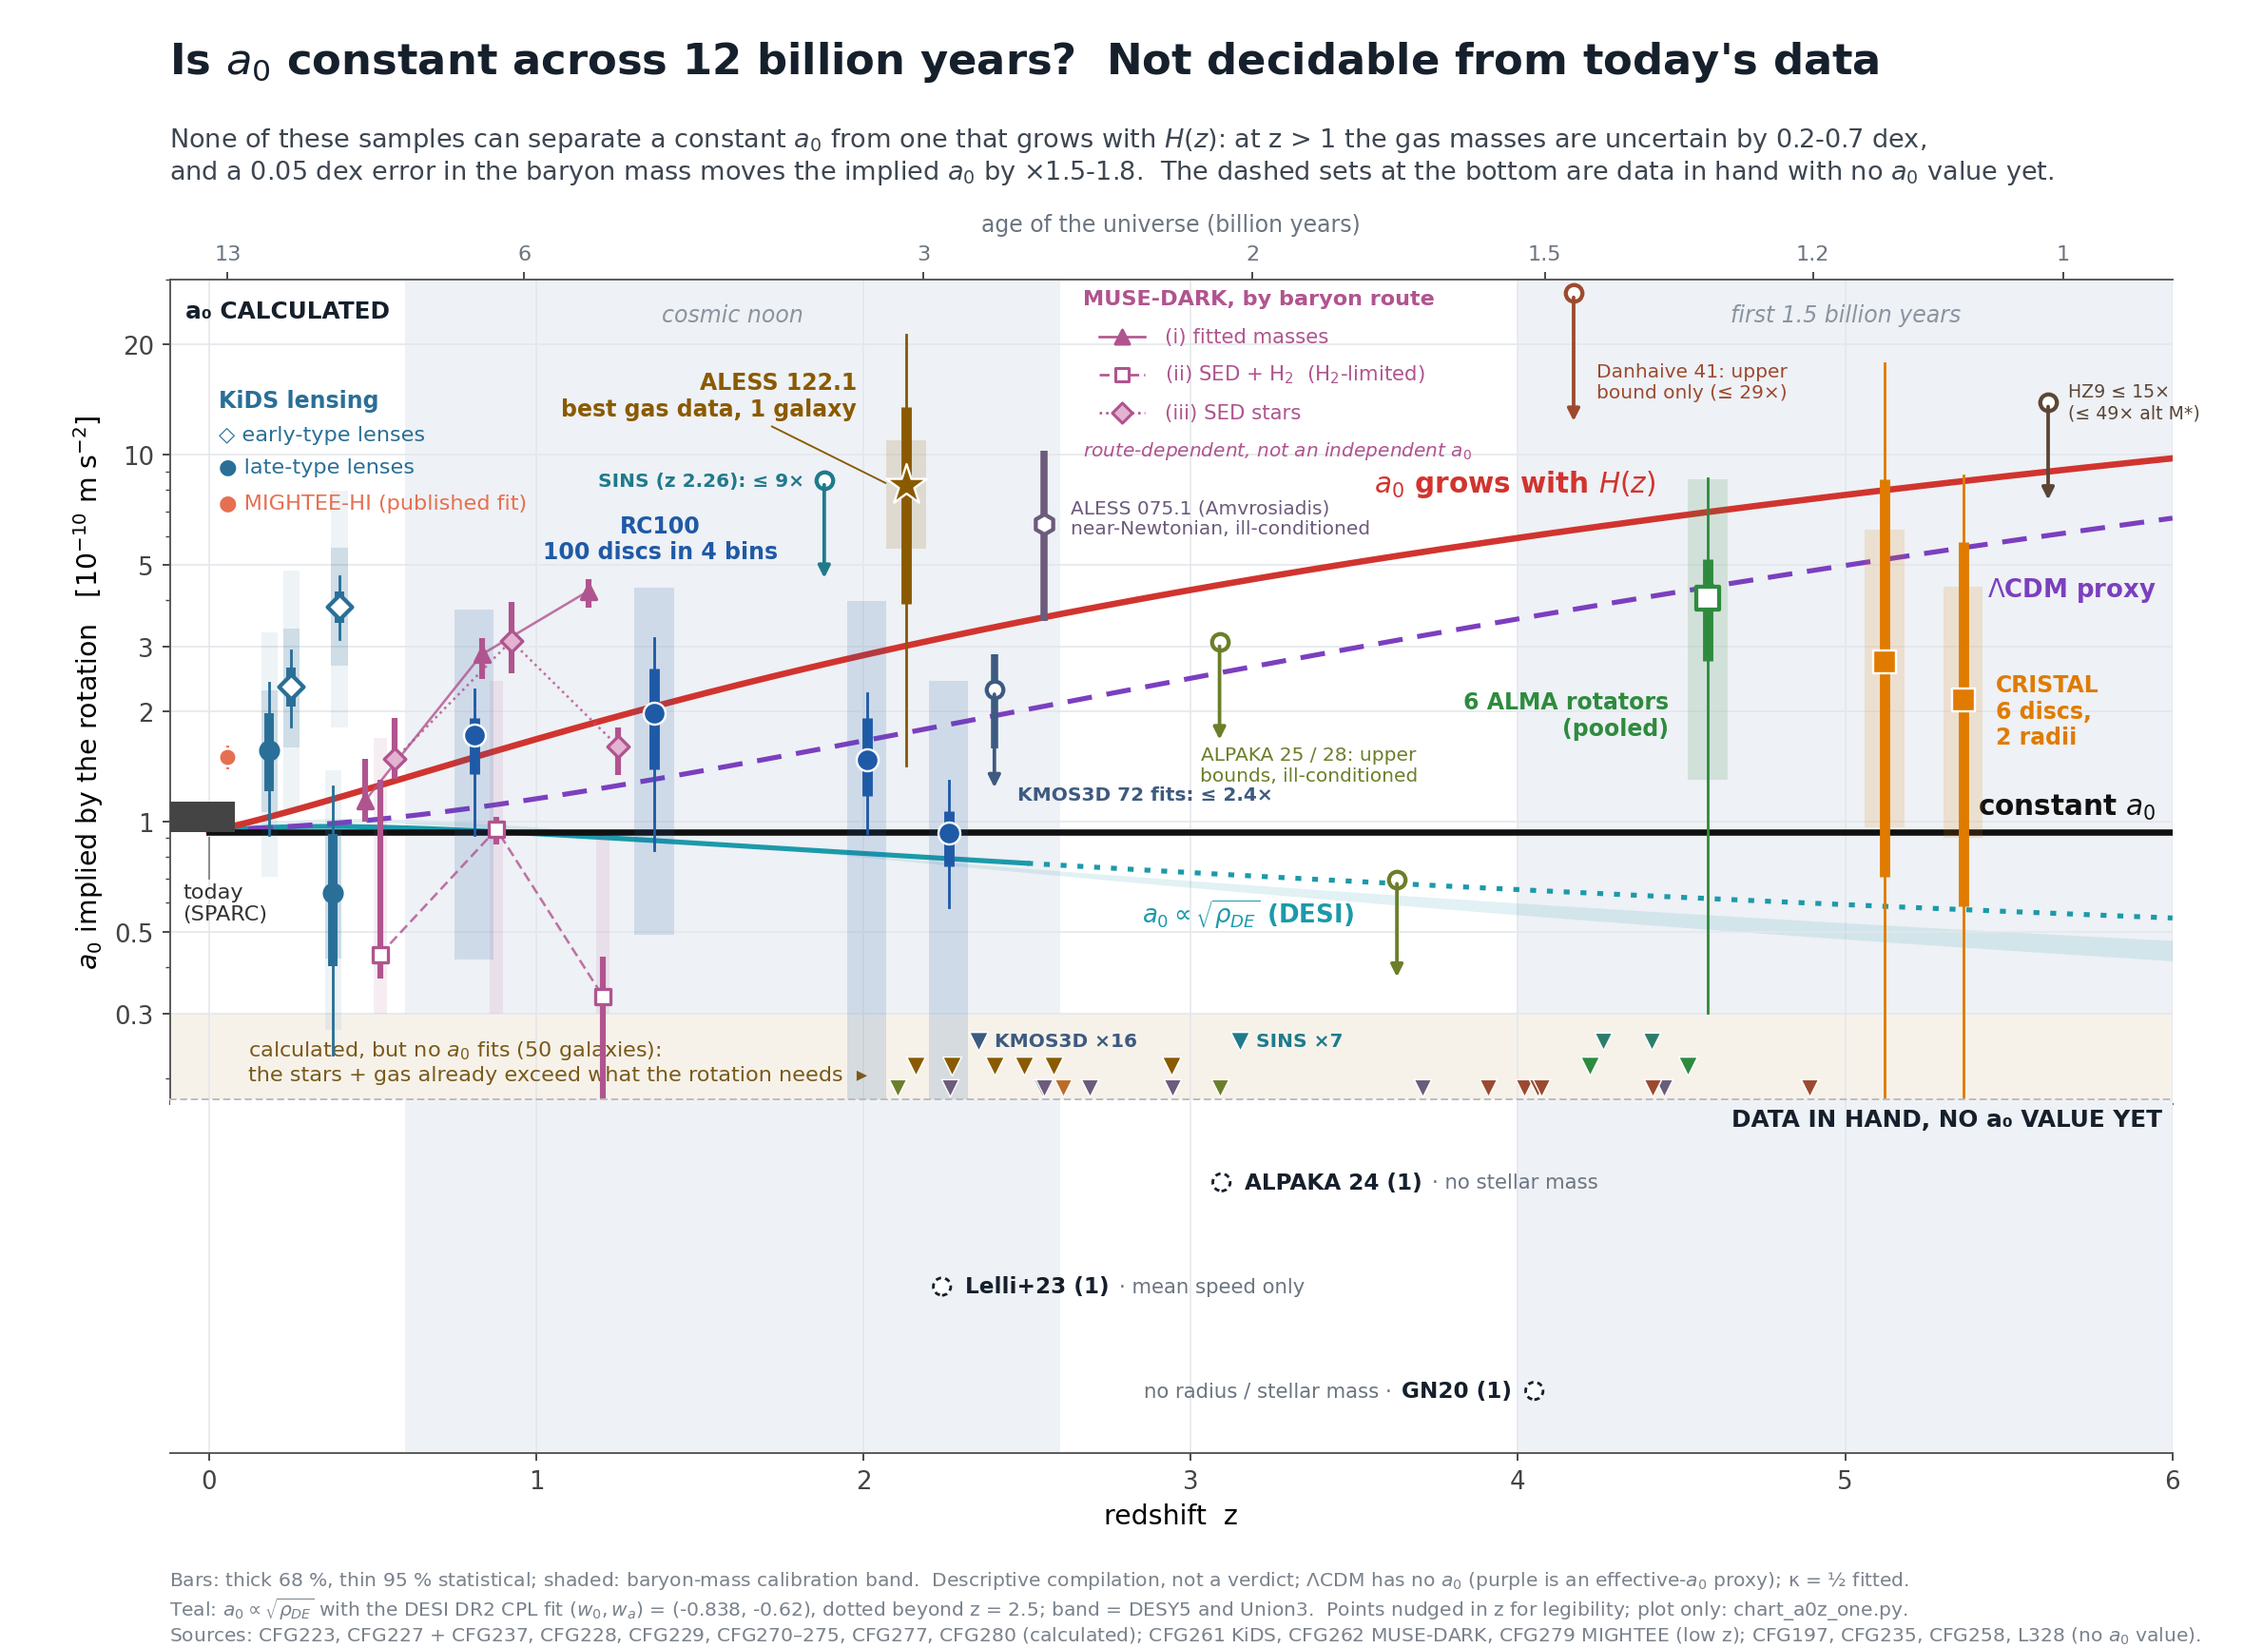
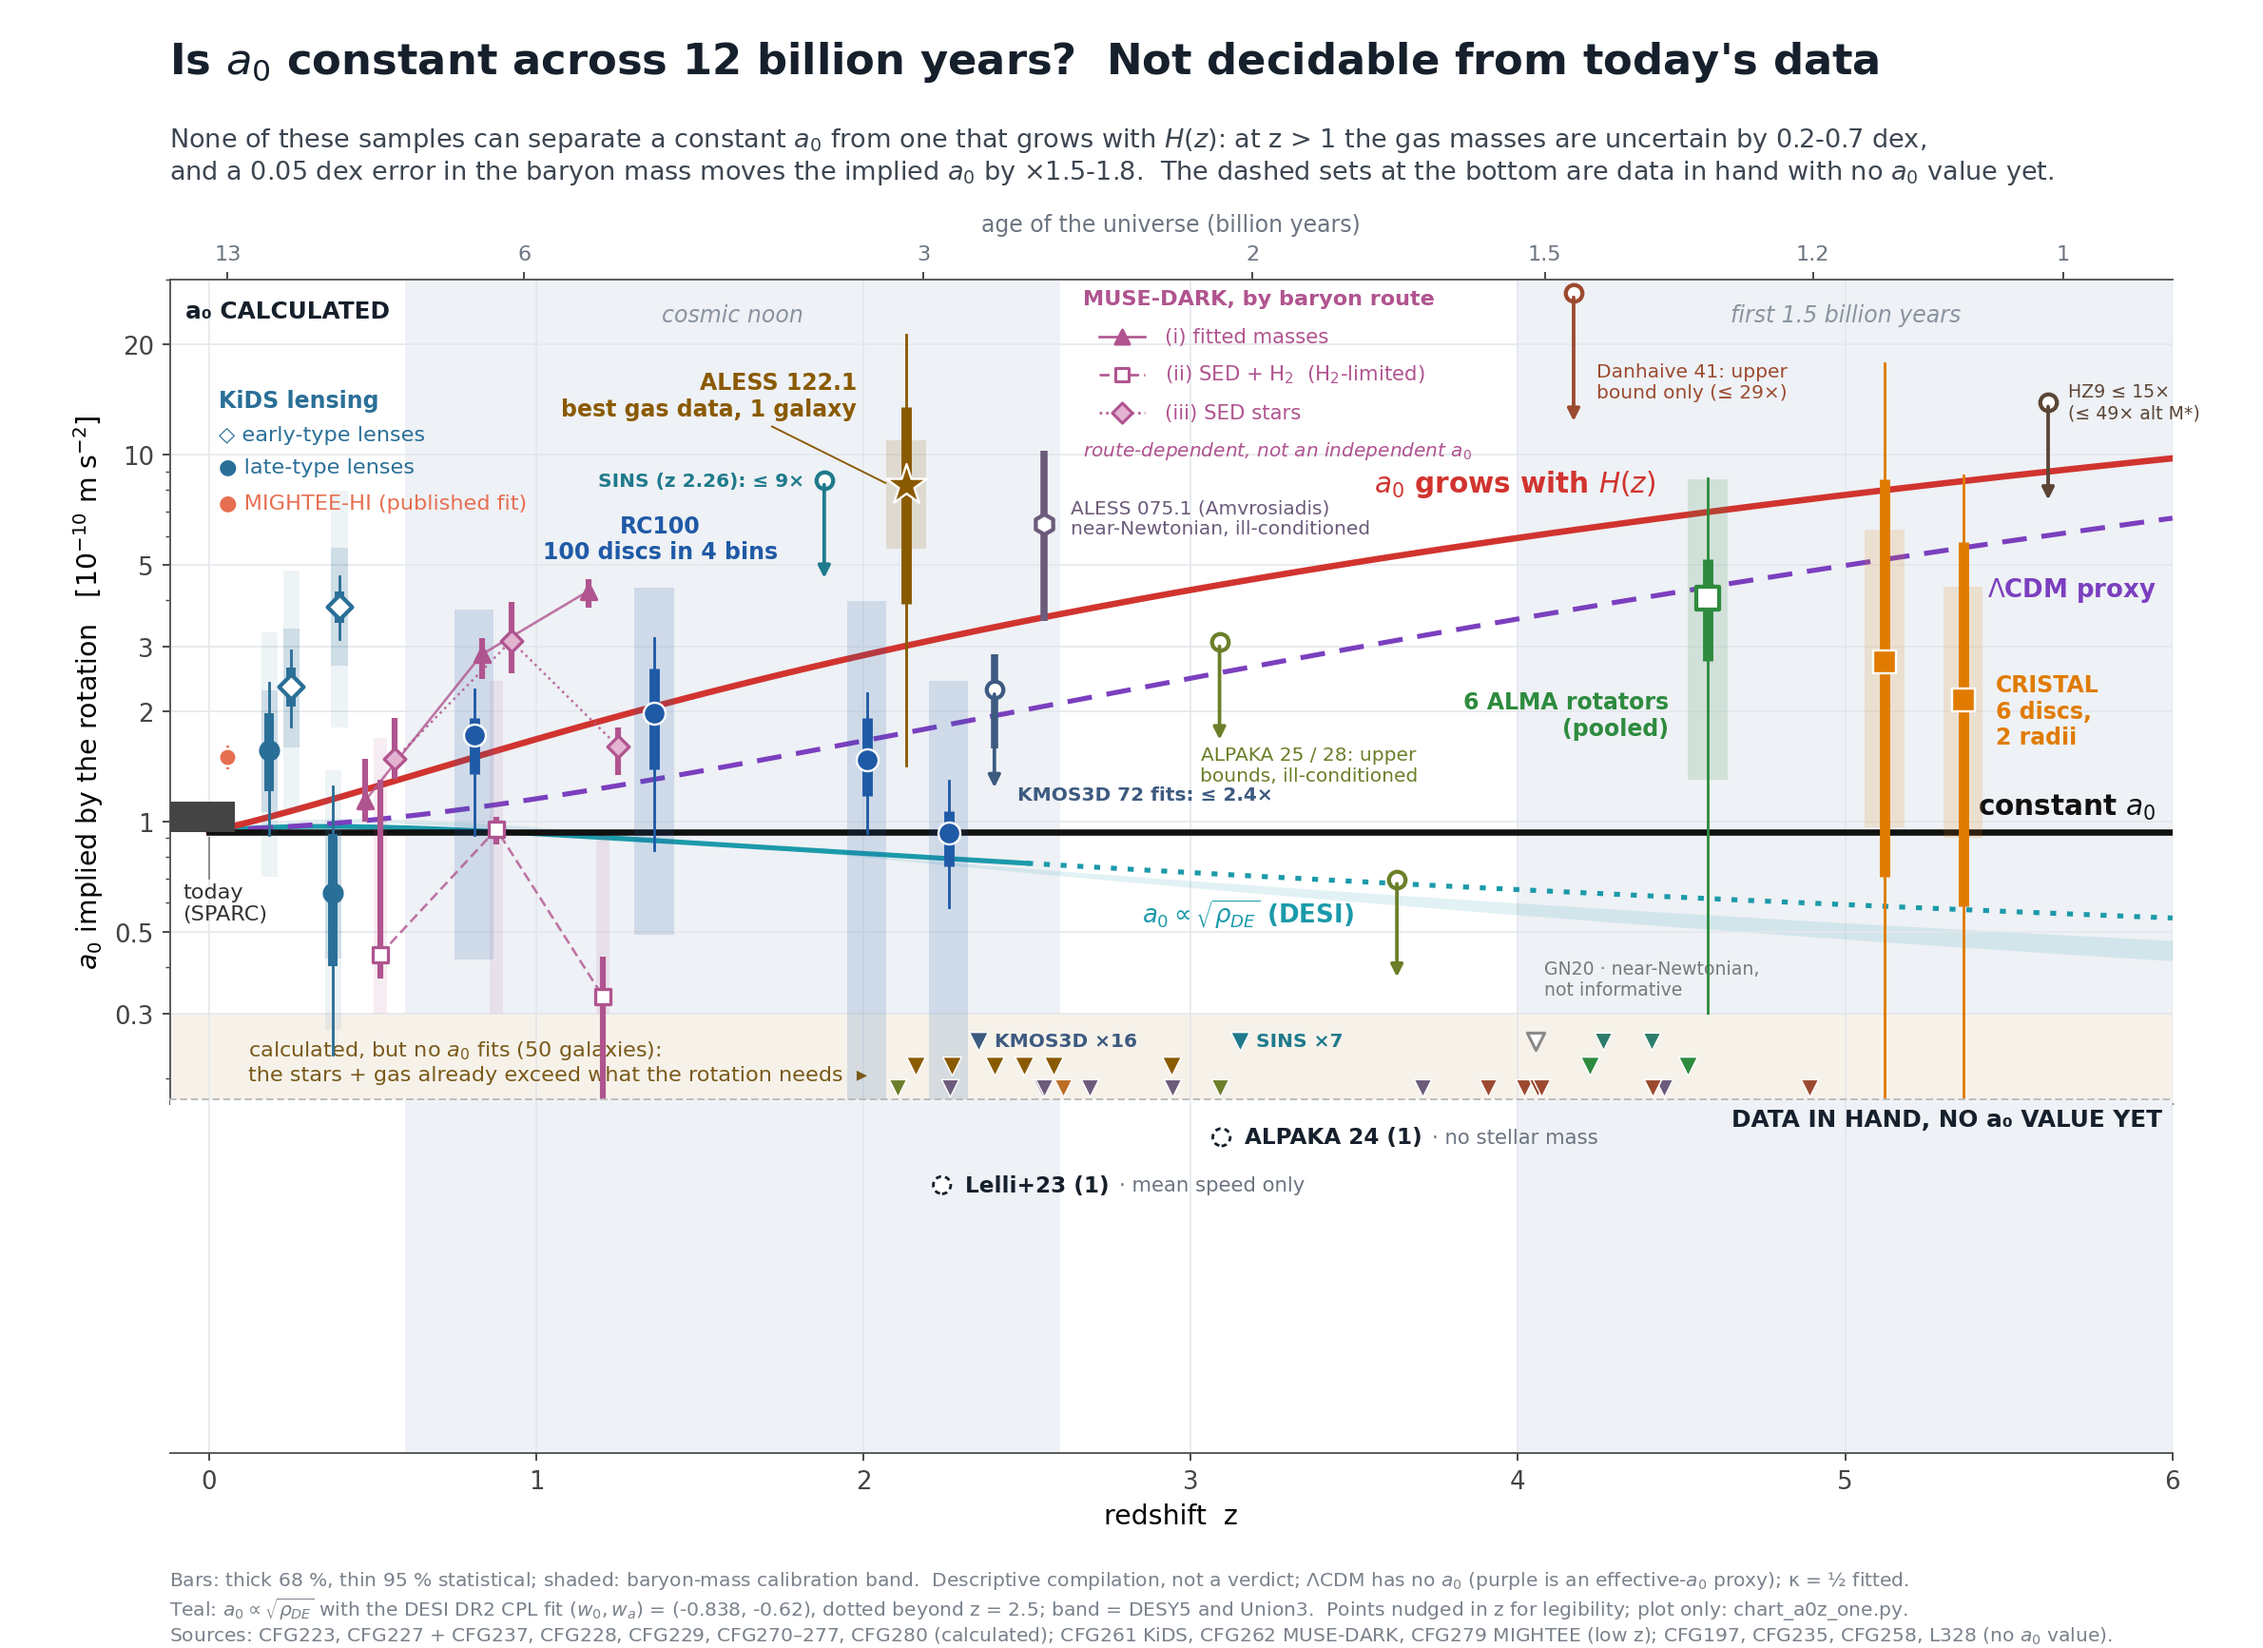
CHART one-chart: GN20 from CFG276 (231d32a8c) -- frozen row is a formal floor but uninformative (D 0.90), drawn hollow grey and not counted; strip row removed; strip keeps fixed row spacing; 20/20 checks; plot only

diff --git a/campaign_fresh_gravity/CHART_a0z_rar_z0_5_2026-10-01/chart_a0z_one.py b/campaign_fresh_gravity/CHART_a0z_rar_z0_5_2026-10-01/chart_a0z_one.py
@@ -51,12 +51,12 @@ A277 = {r["object"]: r for r in csv.DictReader(open(os.path.join(CFG, "CFG277_ro
 A280 = list(csv.DictReader(open(os.path.join(CFG, "CFG280_sins_ao_published", "cfg280_points_stageB.csv"))))   # CFG280 396299a9f
 M279 = {r["object"]: r for r in csv.DictReader(open(os.path.join(CFG, "CFG279_mightee_published_values", "cfg279_points.csv")))}   # CFG279 7cecb04bc
 A275 = {r["object"]: r for r in csv.DictReader(open(os.path.join(CFG, "CFG275_pks0529_ci_rings", "cfg275_points_stageB.csv")))}   # CFG275 093132b4c
+A276 = {r["object"]: r for r in csv.DictReader(open(os.path.join(CFG, "CFG276_gn20", "cfg276_points_stageB.csv")))}   # CFG276 231d32a8c
 A273 = list(csv.DictReader(open(os.path.join(CFG, "CFG273_danhaive_gold41", "cfg273_points_stageB_relabelled.csv"))))   # CFG273 208944196 (relabelled: two ceiling rows)
 A274 = [r for r in csv.DictReader(open(os.path.join(CFG, "CFG274_amvrosiadis_eight_discs", "cfg274_points_stageB.csv"))) if "pooled" not in r["object"]]   # CFG274 255f07244
 TODO = [  # (label, zmin, zmax, short note)       sources: CFG227 'Listed, no point' + CFG237 + CFG258 + L328
     ("ALPAKA 24 (1)", alp["24"], alp["24"], "no stellar mass"),
     ("Lelli+23 (1)", 2.24, 2.24, "mean speed only"),
-    ("GN20 (1)", 4.05, 4.05, "no radius / stellar mass"),
 ]
 
 P("chart_a0z_one: plot only")
@@ -70,6 +70,7 @@ check("CFG277 Roman-Oliveira: J081740 [gas] and BRI1335-0417 [gas] no root; SGP 
 check("CFG280 SINS: PT2_new <= 9.09 (overlap-free); 7 stars-only floor galaxies without an RC100/KMOS3D match (396299a9f)", any(r["object"] == "SINS pooled PT2_new" and abs(float(r["s_star"]) - 9.0878) < 1e-3 for r in A280) and len([r for r in A280 if r["no_root"] == "1" and "[" not in r["object"] and r["rc100_match"] == "0" and r["kmos3d_match"] == "0"]) == 7)
 check("CFG279 MIGHTEE-HI: published whole-sample a0 = 1.50e-10 at z 0.055 (7cecb04bc)", abs(float(M279["MIGHTEE-HI paper: whole sample, z-averaged"]["a0_1e-10_m_s2"]) - 1.50) < 1e-6)
 check("CFG275 PKS 0529-549: chart row [CIG; CO] is a FLOOR (no root), 7 of 8 rows floor (093132b4c)", A275["PKS0529 [CIG; CO]"]["no_root"] == "1" and sum(r["no_root"] == "1" for r in A275.values()) == 7)
+check("CFG276 GN20: frozen row [stars+RT; Re] is a floor but uninformative (D 0.90) (231d32a8c)", A276["GN20 [stars+RT; Re]"]["no_root"] == "1")
 check("CFG273 Danhaive: 7 no root (relabelled file), pooled PALL <= 29.4 at z 4.17 (208944196)", sum(r["no_root"] == "1" for r in A273) == 7 and any("PALL" in r["object"] and abs(float(r["s_star"]) - 29.45) < 0.01 for r in A273), f"({sum(r['no_root'] == '1' for r in A273)} no root)")
 check("CFG272 ALPAKA: 13 and 23 no root; 25 <= 3.30 and 28 <= 0.74 upper bounds; 24 no M* (d993f02dc)", sorted(r["object"].split()[1] for r in A272 if r["no_root"] == "1") == ["13", "23"] and sorted(round(float(r["s_star"]), 2) for r in A272 if r["no_root"] == "0") == [0.74, 3.3], f"({len(A272)} rows)")
 check("CFG274 Amvrosiadis: 7 of 8 no root, ALESS 075.1 s* 6.89 (255f07244)", sum(r["no_root"] == "1" for r in A274) == 7 and any(r["no_root"] == "0" and abs(float(r["s_star"]) - 6.887) < 0.01 for r in A274), f"({sum(r['no_root'] == '1' for r in A274)} no root)")
@@ -197,6 +198,8 @@ ax.annotate("", xy=(zs, ss / 1.9), xytext=(zs, ss), arrowprops=dict(arrowstyle="
 ax.text(zs - 0.06, ss, "SINS (z 2.26): ≤ 9×", color=SNC, fontsize=8.5, ha="right", va="center", fontweight="bold")
 PKSC = "#bc6c25"
 ax.scatter([2.61], [0.188], marker="v", s=60, color=PKSC, zorder=6, edgecolor="white", lw=0.6)   # PKS 0529-549, true z 2.5706, nudged clear of the Amvrosiadis row
+ax.scatter([4.055], [0.252], marker="v", s=60, facecolor="white", edgecolor="#8a8a8a", lw=1.3, zorder=6)   # GN20: D 0.90, NOT informative; not counted
+ax.text(4.08, 0.33, "GN20 · near-Newtonian,\nnot informative", color="#7a7a7a", fontsize=8, ha="left", va="bottom")
 N_NR = 1 + len(sins_floor) + len(ro_floor) + len(k3_floor) + 8 + sum(r["no_root"] == "1" for r in A274) + sum(r["no_root"] == "1" for r in A272) + sum(r["no_root"] == "1" and "pooled" not in r["object"] for r in A273)
 ax.text(0.12, 0.222, f"calculated, but no $a_0$ fits ({N_NR} galaxies):\nthe stars + gas already exceed what the rotation needs  ▸",
         fontsize=9.5, color="#7a5a1a", va="center")
@@ -258,7 +261,7 @@ top.set_xlabel("age of the universe (billion years)", fontsize=10, color=MUTED, 
 ax.text(0.008, 0.975, "a₀ CALCULATED", transform=ax.transAxes, fontsize=10.5, color=INK, fontweight="bold", ha="left", va="top")
 
 # ---------------- strip: data in hand, no a0 value yet ----------------
-sx.set_ylim(len(TODO) - 0.4, -0.8); sx.set_yticks([]); sx.spines["left"].set_visible(False)
+sx.set_ylim(max(len(TODO), 7) - 0.4, -0.8); sx.set_yticks([]); sx.spines["left"].set_visible(False)
 sx.spines["top"].set_visible(True); sx.spines["top"].set_color("#bbb"); sx.spines["top"].set_linestyle((0, (3, 3)))
 for i, (lab, z0, z1, note) in enumerate(TODO):
     if z1 - z0 > 0.04:
@@ -283,7 +286,7 @@ fig.text(0.075, 0.905, "None of these samples can separate a constant $a_0$ from
          "and a 0.05 dex error in the baryon mass moves the implied $a_0$ by ×1.5-1.8.  The dashed sets at the bottom are data in hand with no $a_0$ value yet.",
          fontsize=11.5, color="#3d4651", va="center")
 fig.text(0.075, 0.004, "Bars: thick 68 %, thin 95 % statistical; shaded: baryon-mass calibration band.  Descriptive compilation, not a verdict; "
-         "ΛCDM has no $a_0$ (purple is an effective-$a_0$ proxy); κ = ½ fitted.\nTeal: $a_0 \\propto \\sqrt{\\rho_{DE}}$ with the DESI DR2 CPL fit ($w_0, w_a$) = (-0.838, -0.62), dotted beyond z = 2.5; band = DESY5 and Union3.  Points nudged in z for legibility; plot only: chart_a0z_one.py.\nSources: CFG223, CFG227 + CFG237, CFG228, CFG229, CFG270–275, CFG277, CFG280 (calculated); CFG261 KiDS, CFG262 MUSE-DARK, CFG279 MIGHTEE (low z); CFG197, CFG235, CFG258, L328 (no $a_0$ value).",
+         "ΛCDM has no $a_0$ (purple is an effective-$a_0$ proxy); κ = ½ fitted.\nTeal: $a_0 \\propto \\sqrt{\\rho_{DE}}$ with the DESI DR2 CPL fit ($w_0, w_a$) = (-0.838, -0.62), dotted beyond z = 2.5; band = DESY5 and Union3.  Points nudged in z for legibility; plot only: chart_a0z_one.py.\nSources: CFG223, CFG227 + CFG237, CFG228, CFG229, CFG270–277, CFG280 (calculated); CFG261 KiDS, CFG262 MUSE-DARK, CFG279 MIGHTEE (low z); CFG197, CFG235, CFG258, L328 (no $a_0$ value).",
          fontsize=8.6, color="#7a828c")
 fig.savefig(os.path.join(HERE, "chart_a0z_one_2026-10-01.png"), dpi=170)
 P(f"{sum(CHECKS)}/{len(CHECKS)} checks pass; wrote chart_a0z_one_2026-10-01.png")

diff --git a/campaign_fresh_gravity/CHART_a0z_rar_z0_5_2026-10-01/README.md b/campaign_fresh_gravity/CHART_a0z_rar_z0_5_2026-10-01/README.md
@@ -50,3 +50,5 @@ Requested by the owner as a single figure. Top: the calculated implied-a₀ poin
 **MIGHTEE-HI / LADUMA (CFG279, 7cecb04bc).** The approved "public RAR sample" does not exist: the per-galaxy table is commented out and the data are "on request". So these are the paper's PUBLISHED fit levels (exponential RAR kernel, the authors' M/L), not our estimator. Drawn: the whole-sample, z-averaged level a₀ = 1.50 ± 0.05 ×10⁻¹⁰ at z 0.055, with its 95 % bar. Not drawn: the MIGHTEE-only z = 0 intercept 1.54 ± 0.11 and the SPARC-anchored z = 0 value 1.15 ± 0.02, both extrapolations to z = 0. The within-sample slope b = −1.04 ± 1.51 per unit z is consistent with FLAT and with H(z). The anchored slope is disfavoured only at its formal width, and the authors' own table flips its sign with the M/L convention. FLAT vs H(z) is NOT POSSIBLE (≤ 2 % apart at z < 0.1): a level, not a test. The RC100 label moved to z 1.38 to make room for the MIGHTEE key. MIGHTEE is removed from the strip. 18/18 checks pass.
 
 **PKS 0529-549 (CFG275, 093132b4c).** The five-ring [CI](2-1) curve of Lin+ (arXiv:2411.08958, fetched under the owner's yes) was tested against eight independent baryon sets. Seven are at the floor (median D 0.13–0.56). The lane's frozen chart row [CIGALE stars; CO gas] is a FLOOR (D = 0.555; the baryons would have to fall by 0.28 dex for s* = 1). The eighth row (CIGALE stars, no gas) is a vacuous stars-only bound. Drawn: one floor triangle at z 2.61 (true z 2.5706, nudged clear of the Amvrosiadis row). Every row is ill-conditioned (y 5–120) and beam-limited. PKS is removed from the strip. The floor count is now 50. 19/19 checks pass.
+
+**GN20 (CFG276, 231d32a8c).** g_obs is the Übler+24 DysmalPy model output. The independent baryons are Tan+14 stars plus Boogaard+25's resolved radiative-transfer gas (2.87e11) or Hodge+12's gas (1.3e11). The frozen chart row [stars+RT; Re] is formally a FLOOR, but with median D 0.904 it is NOT informative: 0.04 dex below 1, 64 % of MC draws have no root, and a 0.15 dex baryon shift flips it. It is drawn as a hollow grey triangle labelled "near-Newtonian, not informative" and NOT counted in the floor total. The other rows are vacuous upper bounds (≤ 44 stars-only, ≤ 12 with Hodge gas). GN20 is removed from the strip. The strip is now drawn with fixed row spacing. 20/20 checks pass.
